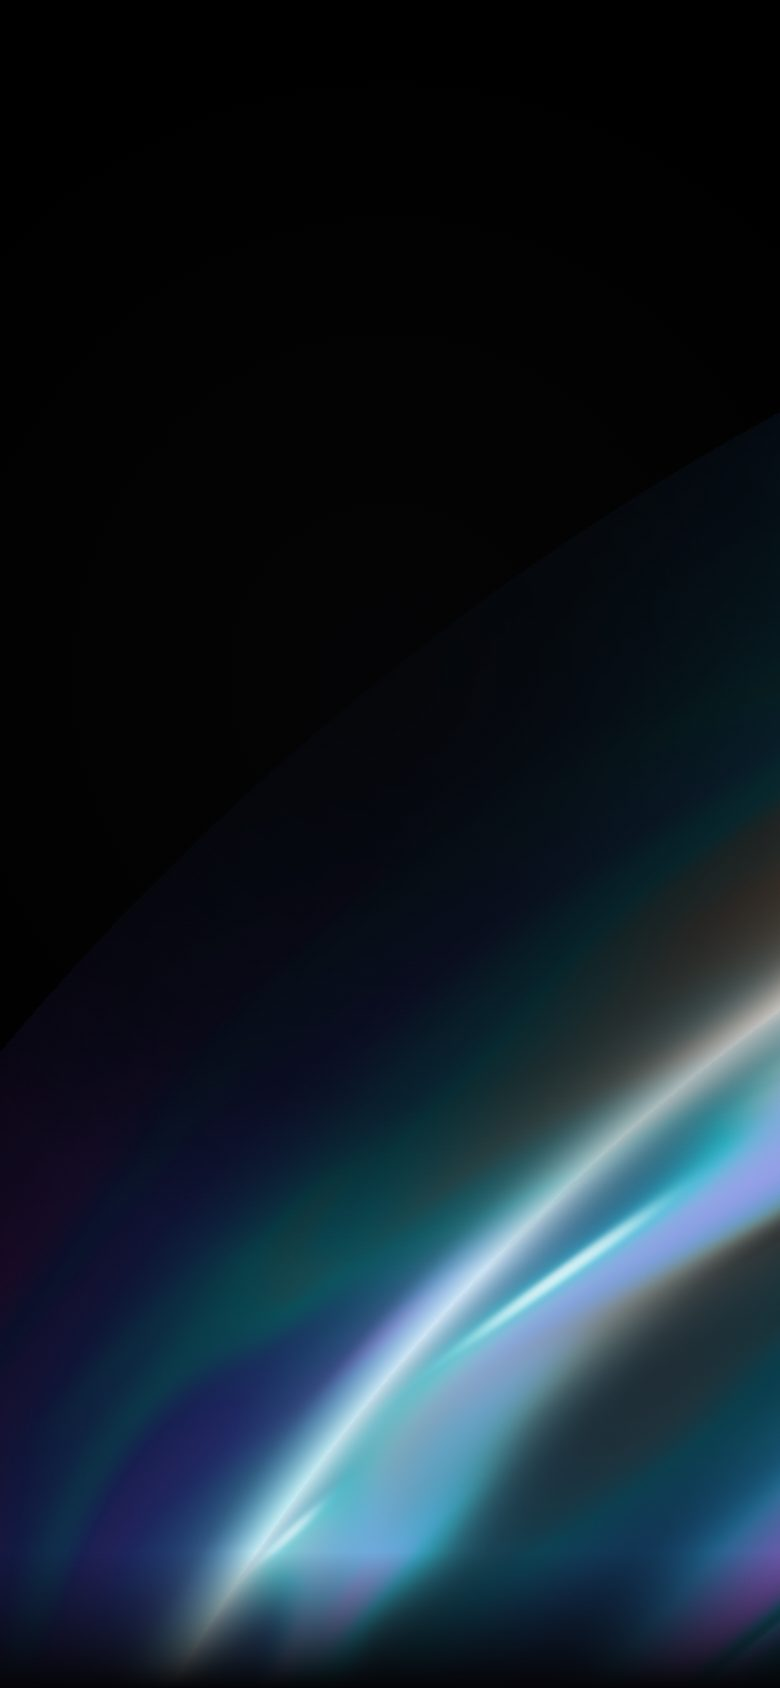
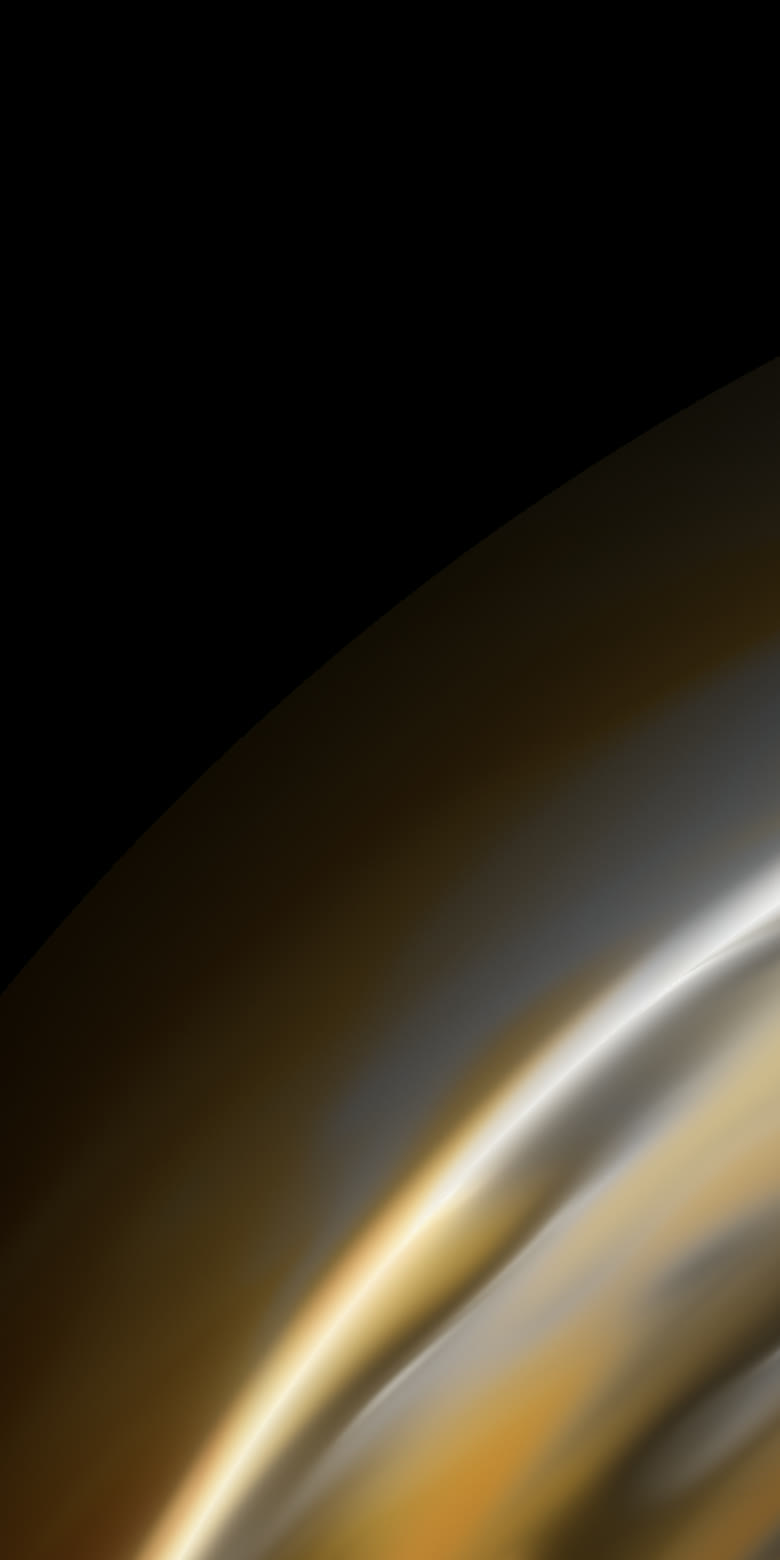
brand: gold and platinum hero arc, gold process particles, warm footer silk
Also re-renders the no-WebGL hero posters from the new arc and sizes the
condensed English headline.

diff --git a/src/components/sections/Hero.tsx b/src/components/sections/Hero.tsx
@@ -19,7 +19,7 @@ function Headline({ lines, reduce }: { lines: string[]; reduce: boolean }) {
   return (
     <>
       {lines.map((line, li) => (
-        <span key={line} className={li === 1 ? 'block text-balance text-[#b3b3bf]' : 'block text-balance'}>
+        <span key={line} className={li === 1 ? 'block text-balance text-[#b7b6b1]' : 'block text-balance'}>
           {line.split(' ').map((word, wi, words) => {
             const delay = 0.45 + li * 0.14 + index++ * 0.045;
             return (
@@ -67,22 +67,22 @@ export function Hero() {
         )}
       </div>
       {/* Soft dark pool behind the centred copy so the light never fights the text. */}
-      <div aria-hidden="true" className="pointer-events-none absolute inset-0 -z-10 bg-[radial-gradient(42%_40%_at_50%_42%,rgba(5,5,7,0.8),rgba(5,5,7,0.45)_55%,transparent_82%)] max-md:bg-[radial-gradient(85%_42%_at_50%_40%,rgba(5,5,7,0.78),rgba(5,5,7,0.4)_60%,transparent_85%)] md:rtl:bg-[radial-gradient(46%_46%_at_50%_48%,rgba(5,5,7,0.85),rgba(5,5,7,0.5)_55%,transparent_82%)]" />
+      <div aria-hidden="true" className="pointer-events-none absolute inset-0 -z-10 bg-[radial-gradient(42%_40%_at_50%_42%,rgba(14,14,15,0.8),rgba(14,14,15,0.45)_55%,transparent_82%)] max-md:bg-[radial-gradient(85%_42%_at_50%_40%,rgba(14,14,15,0.78),rgba(14,14,15,0.4)_60%,transparent_85%)] md:rtl:bg-[radial-gradient(46%_46%_at_50%_48%,rgba(14,14,15,0.85),rgba(14,14,15,0.5)_55%,transparent_82%)]" />
       <div aria-hidden="true" className="pointer-events-none absolute inset-x-0 bottom-0 -z-10 h-[8%] bg-[linear-gradient(to_top,var(--color-ink),transparent)]" />
       <div aria-hidden="true" className="hero-grain pointer-events-none absolute -inset-[20%] -z-10" />
 
       {/* ── Content ──────────────────────────────────────────── */}
       <div className="container-x flex flex-1 flex-col items-center pb-16 pt-[calc(var(--nav)+clamp(2rem,8vh,6rem))] text-center">
-        <motion.p {...fade(0.2)} className="inline-flex items-center gap-2.5 rounded-pill border border-line bg-ink/50 px-4 py-1.5 text-[0.72rem] uppercase tracking-[0.14em] text-[#c3c3c6] backdrop-blur-sm rtl:text-xs rtl:normal-case rtl:tracking-normal">
+        <motion.p {...fade(0.2)} className="inline-flex items-center gap-2.5 rounded-pill border border-line bg-ink/50 px-4 py-1.5 text-[0.72rem] uppercase tracking-[0.14em] text-[#c4c4c0] backdrop-blur-sm rtl:text-xs rtl:normal-case rtl:tracking-normal">
           <span aria-hidden="true" className="bg-spectrum size-1.5 rounded-full" />
           {dict.hero.kicker}
         </motion.p>
 
-        <h1 id="hero-title" className="display-xl mt-7 max-w-[32ch] !text-[clamp(2rem,0.8rem+3.6vw,5rem)] rtl:max-w-[24ch] rtl:!text-[clamp(1.9rem,0.8rem+3.4vw,4.6rem)] rtl:!leading-[1.3]">
+        <h1 id="hero-title" className="display-xl mt-7 max-w-[36ch] !text-[clamp(2.5rem,0.9rem+4.6vw,6.25rem)] rtl:max-w-[24ch] rtl:!text-[clamp(1.9rem,0.8rem+3.4vw,4.6rem)] rtl:!leading-[1.3]">
           <Headline lines={[dict.hero.line1, dict.hero.line2]} reduce={reduce} />
         </h1>
 
-        <motion.p {...fade(1)} className="mt-5 max-w-[52ch] text-base leading-relaxed text-[#b0b0bc] sm:mt-6 sm:text-xl">
+        <motion.p {...fade(1)} className="mt-5 max-w-[52ch] text-base leading-relaxed text-[#b2b1ac] sm:mt-6 sm:text-xl">
           {dict.hero.text}
         </motion.p>
 

diff --git a/src/components/three/footer/FooterSilkScene.tsx b/src/components/three/footer/FooterSilkScene.tsx
@@ -12,7 +12,7 @@ import * as THREE from 'three';
  * line of coloured light as the surface rolls.
  */
 
-const INK = '#050507';
+const INK = '#0e0e0f';
 
 // Shared by the displacement and the analytic normal so light follows the folds exactly.
 const WAVE = /* glsl */ `
@@ -99,10 +99,10 @@ function Studio() {
     <Environment resolution={512} frames={1}>
       <color attach="background" args={['#000000']} />
       <Lightformer form="rect" intensity={2.2} color="#ffffff" position={[0, 5, -6]} rotation-x={Math.PI / 2.4} scale={[34, 0.18, 1]} />
-      <Lightformer form="rect" intensity={2.4} color="#1ad9ff" position={[-7, 2.2, -9]} rotation-x={Math.PI / 2.8} scale={[16, 0.22, 1]} />
-      <Lightformer form="rect" intensity={2.4} color="#ff2e9e" position={[7, 2.6, -8]} rotation-x={Math.PI / 2.8} scale={[16, 0.22, 1]} />
-      <Lightformer form="rect" intensity={1.6} color="#ff7338" position={[0, 1.3, -11]} rotation-x={Math.PI / 3} scale={[22, 0.18, 1]} />
-      <Lightformer form="rect" intensity={0.9} color="#b340ff" position={[-3, 3.5, 7]} rotation-x={-Math.PI / 2.6} scale={[20, 0.3, 1]} />
+      <Lightformer form="rect" intensity={2.4} color="#f6d79b" position={[-7, 2.2, -9]} rotation-x={Math.PI / 2.8} scale={[16, 0.22, 1]} />
+      <Lightformer form="rect" intensity={2.4} color="#e8a33a" position={[7, 2.6, -8]} rotation-x={Math.PI / 2.8} scale={[16, 0.22, 1]} />
+      <Lightformer form="rect" intensity={1.6} color="#c9831f" position={[0, 1.3, -11]} rotation-x={Math.PI / 3} scale={[22, 0.18, 1]} />
+      <Lightformer form="rect" intensity={0.9} color="#c4c7cb" position={[-3, 3.5, 7]} rotation-x={-Math.PI / 2.6} scale={[20, 0.3, 1]} />
     </Environment>
   );
 }

diff --git a/src/components/three/hero/arcShader.ts b/src/components/three/hero/arcShader.ts
@@ -6,7 +6,7 @@
  * ribbons of colour along the curve; the ribbons are treated as a height field
  * and lit like a glossy fluid (normals, specular glints, fresnel), so the light
  * reads as poured liquid rather than streaks. The sphere rotates in 3D with
- * time and the pointer, colour cycles through a looping spectrum, and the
+ * time and the pointer, colour cycles through a looping saffron-to-platinum spectrum, and the
  * cursor sends soft ripples through the surface.
  */
 
@@ -52,11 +52,11 @@ float fbm(vec2 p) {
 
 // Looping spectrum so colour can cycle forever without a seam.
 vec3 spectrum(float t) {
-  vec3 c1 = vec3(0.10, 0.85, 1.00); // cyan
-  vec3 c2 = vec3(0.25, 0.35, 1.00); // blue
-  vec3 c3 = vec3(0.70, 0.25, 1.00); // violet
-  vec3 c4 = vec3(1.00, 0.18, 0.62); // magenta
-  vec3 c5 = vec3(1.00, 0.45, 0.22); // orange
+  vec3 c1 = vec3(0.91, 0.64, 0.23); // saffron
+  vec3 c2 = vec3(0.79, 0.45, 0.10); // deep amber
+  vec3 c3 = vec3(0.62, 0.22, 0.07); // copper
+  vec3 c4 = vec3(1.00, 0.84, 0.52); // pale gold
+  vec3 c5 = vec3(0.80, 0.80, 0.82); // platinum
   t = fract(t) * 5.0;
   if (t < 1.0) return mix(c1, c2, t);
   if (t < 2.0) return mix(c2, c3, t - 1.0);

diff --git a/src/components/three/process/ProcessScene.tsx b/src/components/three/process/ProcessScene.tsx
@@ -162,8 +162,8 @@ function Particles({ progress, reduced, lite }: { progress: RefObject<number>; r
       uTime: { value: 0 },
       uSize: { value: lite ? 58 : 46 },
       uPixelRatio: { value: 1 },
-      uColorA: { value: new THREE.Color('#3ec6ff') },
-      uColorB: { value: new THREE.Color('#8b9dff') },
+      uColorA: { value: new THREE.Color('#e8a33a') },
+      uColorB: { value: new THREE.Color('#f6d79b') },
     }),
     [lite, reduced],
   );
